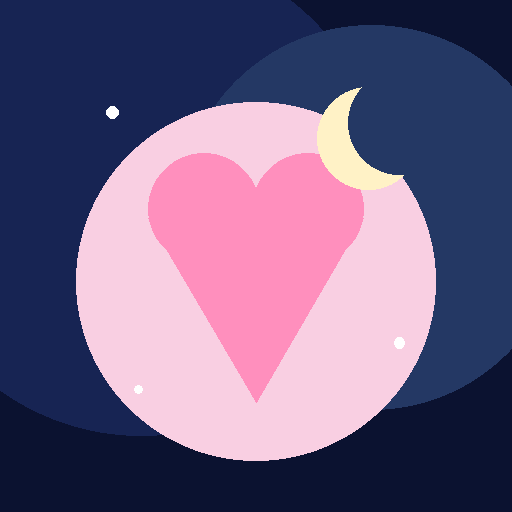
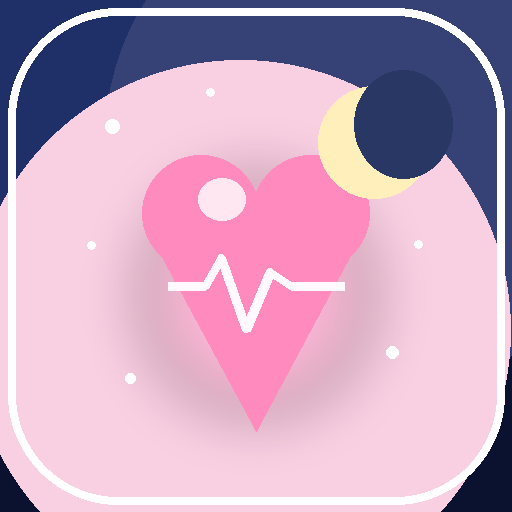
Add files via upload
v1.2

diff --git a/style.css b/style.css
@@ -1,1 +1,27 @@
 :root{--bg:#070b1d;--card:rgba(255,255,255,.10);--text:#fff7fb;--muted:rgba(255,247,251,.72);--soft:rgba(255,247,251,.55);--line:rgba(255,255,255,.14);--pink:#ffd4e7;--pink2:#ff9fc9;--blue:#b9d7ff;--gold:#fff0bb;--shadow:rgba(0,0,0,.30)}*{box-sizing:border-box}html{min-height:100%;background:var(--bg)}body{min-height:100vh;margin:0;color:var(--text);font-family:-apple-system,BlinkMacSystemFont,"SF Pro Display","Segoe UI",sans-serif;background:radial-gradient(circle at 20% 8%,rgba(255,212,231,.20),transparent 26rem),radial-gradient(circle at 82% 16%,rgba(185,215,255,.18),transparent 24rem),linear-gradient(180deg,#071026 0%,#11193b 52%,#090b1e 100%);overflow-x:hidden}.stars{position:fixed;inset:0;pointer-events:none;background-image:radial-gradient(circle,rgba(255,255,255,.85) 0 1px,transparent 1px),radial-gradient(circle,rgba(255,212,231,.70) 0 1px,transparent 1px),radial-gradient(circle,rgba(185,215,255,.65) 0 1px,transparent 1px);background-size:96px 96px,142px 142px,210px 210px;background-position:16px 24px,52px 74px,120px 18px;opacity:.36}.app-shell{width:min(720px,100%);margin:0 auto;padding:calc(18px + env(safe-area-inset-top)) 18px 120px;position:relative;z-index:1}.topbar{display:flex;align-items:center;justify-content:space-between;gap:16px;margin-bottom:18px}.eyebrow{margin:0 0 2px;color:var(--soft);font-size:13px;letter-spacing:.16em;text-transform:uppercase}h1{margin:0;font-size:clamp(30px,8vw,46px);line-height:1.05;letter-spacing:-.04em}h2{margin:0;font-size:18px}.moon-badge{width:58px;height:58px;display:grid;place-items:center;border-radius:22px;background:rgba(255,255,255,.11);box-shadow:0 16px 50px var(--shadow);font-size:30px}.card{background:linear-gradient(145deg,var(--card),rgba(255,255,255,.065));border:1px solid var(--line);border-radius:28px;padding:20px;box-shadow:0 20px 60px var(--shadow);backdrop-filter:blur(22px);-webkit-backdrop-filter:blur(22px);margin-bottom:16px}.hero{min-height:136px}.soft-label{margin:0 0 14px;color:var(--soft);font-size:14px}.daily-line{margin:0 0 15px;font-size:19px;line-height:1.55}.view{display:none}.view.active{display:block;animation:rise .28s ease both}.center-card{min-height:350px;display:flex;flex-direction:column;align-items:center;justify-content:center;text-align:center;gap:18px}.heart-orb{width:132px;height:132px;display:grid;place-items:center;border-radius:44px;background:radial-gradient(circle at 40% 34%,rgba(255,255,255,.95),rgba(255,212,231,.72) 34%,rgba(255,159,201,.38) 66%,rgba(185,215,255,.18));box-shadow:0 0 36px rgba(255,159,201,.38),0 22px 60px rgba(0,0,0,.25);font-size:54px}.heart-orb.beating{animation:beat .78s ease-in-out 3}.heartbeat-text,.hug-text{min-height:84px;white-space:pre-line;margin:0;font-size:22px;line-height:1.52}button{appearance:none;border:0;font:inherit;color:inherit;cursor:pointer;-webkit-tap-highlight-color:transparent}.primary-button,.ghost-button,.wide-ghost-button,.tiny-button{min-height:48px;border-radius:999px;padding:0 22px;font-weight:700}.primary-button{background:linear-gradient(135deg,var(--pink),var(--pink2));color:#331524;box-shadow:0 14px 36px rgba(255,159,201,.22)}.ghost-button,.wide-ghost-button,.tiny-button{background:rgba(255,255,255,.10);border:1px solid var(--line)}.tiny-button{min-height:38px;padding:0 16px;font-size:14px;color:var(--pink)}.wide-ghost-button{width:100%;margin-top:12px}.text-button{background:transparent;color:var(--pink);font-weight:700}.tiny-note{margin:-4px 0 0;color:var(--soft);font-size:13px}.mini-illustration{width:150px;height:112px;position:relative;border-radius:40px;background:radial-gradient(circle at 25% 42%,rgba(255,212,231,.38),transparent 34%),radial-gradient(circle at 76% 36%,rgba(185,215,255,.33),transparent 32%),rgba(255,255,255,.08)}.mini-illustration span{position:absolute;font-size:32px}.mini-illustration span:nth-child(1){left:25px;top:18px}.mini-illustration span:nth-child(2){left:58px;top:46px}.mini-illustration span:nth-child(3){right:24px;top:18px}.moon-card{text-align:center}.moon-scene{position:relative;height:230px;overflow:hidden;border-radius:32px;background:radial-gradient(circle at 50% 28%,rgba(255,240,187,.36),transparent 17%),radial-gradient(circle at 50% 65%,rgba(185,215,255,.18),transparent 30%),linear-gradient(180deg,rgba(12,21,50,.88),rgba(22,28,62,.70));border:1px solid rgba(255,255,255,.10);margin-bottom:18px}.big-moon{position:absolute;top:25px;left:50%;transform:translateX(-50%);font-size:70px;filter:drop-shadow(0 0 24px rgba(255,240,187,.40))}.water-line{position:absolute;left:10%;right:10%;bottom:70px;height:2px;border-radius:999px;background:linear-gradient(90deg,transparent,rgba(255,255,255,.72),transparent);box-shadow:0 18px 30px rgba(185,215,255,.30)}.two-figures{position:absolute;left:50%;bottom:28px;transform:translateX(-50%);font-size:30px;letter-spacing:-5px;color:var(--pink);text-shadow:0 0 24px rgba(255,159,201,.38)}.moon-text{margin:0 auto 18px;max-width:540px;color:var(--text);font-size:20px;line-height:1.72}.moon-buttons{justify-content:center;flex-wrap:wrap}.input-label{display:block;margin-bottom:10px;color:var(--muted);font-weight:700}.mood-row{display:flex;gap:8px;flex-wrap:wrap;margin-bottom:12px}.mood-chip{min-height:38px;border-radius:999px;padding:0 12px;background:rgba(255,255,255,.08);border:1px solid var(--line);color:var(--muted);font-weight:700}.mood-chip.active{color:#2b1724;background:linear-gradient(135deg,var(--pink),var(--pink2));border-color:transparent}textarea{width:100%;resize:vertical;border:1px solid var(--line);border-radius:22px;min-height:150px;padding:16px;background:rgba(0,0,0,.16);color:var(--text);font:inherit;line-height:1.55;outline:none}textarea:focus{border-color:rgba(255,212,231,.52);box-shadow:0 0 0 4px rgba(255,212,231,.10)}textarea::placeholder{color:rgba(255,247,251,.42)}.button-row,.section-head{display:flex;align-items:center;justify-content:space-between;gap:12px}.button-row{margin-top:14px}.entries-list{display:grid;gap:10px;margin-top:14px}.entry{padding:14px;border-radius:20px;background:rgba(255,255,255,.08);border:1px solid var(--line)}.entry time{display:block;color:var(--soft);font-size:13px;margin-bottom:7px}.entry .mood{display:inline-block;margin-bottom:7px;color:var(--pink);font-weight:700;font-size:14px}.entry p{margin:0;line-height:1.5}.empty{color:var(--soft);line-height:1.5}.tabbar{position:fixed;z-index:2;left:50%;bottom:calc(12px + env(safe-area-inset-bottom));transform:translateX(-50%);width:min(500px,calc(100% - 28px));display:grid;grid-template-columns:repeat(4,1fr);gap:7px;padding:8px;border-radius:28px;background:rgba(8,12,30,.72);border:1px solid rgba(255,255,255,.16);box-shadow:0 16px 60px var(--shadow);backdrop-filter:blur(24px);-webkit-backdrop-filter:blur(24px)}.tab{min-height:62px;display:grid;place-items:center;gap:2px;border-radius:22px;background:transparent;color:var(--muted)}.tab span{font-size:23px}.tab small{font-size:12px;font-weight:700}.tab.active{background:rgba(255,255,255,.13);color:var(--text)}.toast{position:fixed;z-index:3;left:50%;bottom:calc(96px + env(safe-area-inset-bottom));transform:translateX(-50%) translateY(16px);max-width:calc(100% - 40px);padding:12px 16px;border-radius:999px;background:rgba(255,247,251,.94);color:#1a1630;font-weight:700;opacity:0;pointer-events:none;transition:opacity .22s ease,transform .22s ease}.toast.show{opacity:1;transform:translateX(-50%) translateY(0)}@keyframes beat{0%,100%{transform:scale(1)}22%{transform:scale(1.10)}42%{transform:scale(.98)}62%{transform:scale(1.07)}}@keyframes rise{from{opacity:0;transform:translateY(8px)}to{opacity:1;transform:translateY(0)}}@media(max-width:380px){.app-shell{padding-left:14px;padding-right:14px}.card{border-radius:24px;padding:18px}.heartbeat-text,.hug-text{font-size:20px}.tab small{font-size:11px}}
+
+
+/* Heartbox v1.2 polish */
+.view{display:none;opacity:0;transform:translateY(10px) scale(.995)}
+.view.active{display:block;animation:viewIn .34s cubic-bezier(.2,.8,.2,1) both}
+.heart-wrap{width:164px;height:164px;display:grid;place-items:center;position:relative}
+.heart-ripple{position:absolute;width:116px;height:116px;border-radius:42px;border:1px solid rgba(255,212,231,.42);opacity:0;transform:scale(.74)}
+.heart-ripple.rippling{animation:ripple 1.24s ease-out both}
+.heart-orb{animation:softBreath 4.2s ease-in-out infinite;box-shadow:0 0 32px rgba(255,159,201,.30),0 0 72px rgba(185,215,255,.14),0 22px 60px rgba(0,0,0,.25)}
+.heart-orb.beating{animation:beat .84s ease-in-out 3}
+.heartbeat-text.fade-in,.hug-text.fade-in,.moon-text.fade-in,.daily-line.fade-in{animation:textFloat .34s ease both}
+button{transition:transform .13s ease,box-shadow .13s ease,background .13s ease}
+button:active{transform:scale(.97)}
+.primary-button:active{box-shadow:0 7px 22px rgba(255,159,201,.20)}
+.big-moon{animation:moonFloat 5.4s ease-in-out infinite}
+.link-buttons{display:flex;gap:12px;flex-wrap:wrap;justify-content:flex-end}
+.entry{background:linear-gradient(135deg,rgba(255,255,255,.10),rgba(255,255,255,.055));animation:entryIn .24s ease both}
+.entry p{white-space:pre-line}
+@keyframes softBreath{0%,100%{transform:scale(1);box-shadow:0 0 30px rgba(255,159,201,.28),0 0 70px rgba(185,215,255,.12),0 22px 60px rgba(0,0,0,.25)}50%{transform:scale(1.025);box-shadow:0 0 42px rgba(255,159,201,.38),0 0 90px rgba(185,215,255,.18),0 24px 66px rgba(0,0,0,.28)}}
+@keyframes ripple{0%{opacity:.78;transform:scale(.70);box-shadow:0 0 18px rgba(255,212,231,.25)}100%{opacity:0;transform:scale(1.85);box-shadow:0 0 48px rgba(255,212,231,.08)}}
+@keyframes viewIn{from{opacity:0;transform:translateY(10px) scale(.995);filter:blur(2px)}to{opacity:1;transform:translateY(0) scale(1);filter:blur(0)}}
+@keyframes textFloat{from{opacity:0;transform:translateY(6px)}to{opacity:1;transform:translateY(0)}}
+@keyframes moonFloat{0%,100%{transform:translateX(-50%) translateY(0)}50%{transform:translateX(-50%) translateY(-4px)}}
+@keyframes entryIn{from{opacity:0;transform:translateY(5px)}to{opacity:1;transform:translateY(0)}}
+@media(prefers-reduced-motion:reduce){*,*::before,*::after{animation-duration:.001ms!important;animation-iteration-count:1!important;scroll-behavior:auto!important}}
+@media(max-width:380px){.section-head{align-items:flex-start;flex-direction:column}}

diff --git a/index.html b/index.html
@@ -2,8 +2,8 @@
 <html lang="zh-CN">
 <head>
   <meta charset="utf-8" />
-  <meta name="robots" content="noindex, nofollow, noarchive, nosnippet">
-  <meta name="googlebot" content="noindex, nofollow, noarchive, nosnippet">
+  <meta name="robots" content="noindex, nofollow, noarchive, nosnippet" />
+  <meta name="googlebot" content="noindex, nofollow, noarchive, nosnippet" />
   <meta name="viewport" content="width=device-width, initial-scale=1, viewport-fit=cover" />
   <meta name="theme-color" content="#101936" />
   <meta name="apple-mobile-web-app-capable" content="yes" />
@@ -20,7 +20,7 @@
   <main class="app-shell">
     <header class="topbar">
       <div>
-        <p class="eyebrow">Heartbox · v1.1</p>
+        <p class="eyebrow">Heartbox · v1.2</p>
         <h1>心跳小匣子</h1>
       </div>
       <div class="moon-badge" aria-hidden="true">🌙</div>
@@ -34,7 +34,7 @@
 
     <section id="view-heart" class="view active" aria-labelledby="tab-heart">
       <div class="card center-card">
-        <div id="heartOrb" class="heart-orb" role="img" aria-label="心跳光球">💗</div>
+        <div class="heart-wrap" aria-hidden="true"><div id="heartRipple" class="heart-ripple"></div><div id="heartOrb" class="heart-orb" role="img" aria-label="心跳光球">💗</div></div>
         <p id="heartbeatText" class="heartbeat-text">点一下，听见心跳。</p>
         <button id="beatButton" class="primary-button">听心跳</button>
         <p class="tiny-note">每一次心跳，只存在你的手机里。</p>
@@ -75,7 +75,7 @@
         </div>
         <textarea id="diaryInput" rows="6" placeholder="今天写一句就好……"></textarea>
         <div class="button-row">
-          <button id="saveDiaryButton" class="primary-button">保存今天</button>
+          <button id="saveDiaryButton" class="primary-button">保存这一束光</button>
           <button id="clearDiaryButton" class="ghost-button">清空输入</button>
         </div>
       </div>
@@ -83,10 +83,10 @@
       <div class="card">
         <div class="section-head">
           <h2>最近的小光点</h2>
-          <button id="exportButton" class="text-button">导出</button>
+          <div class="link-buttons"><button id="exportButton" class="text-button">导出全部</button><button id="copySpiritButton" class="text-button">复制给 Spirit</button></div>
         </div>
         <div id="entriesList" class="entries-list"></div>
-        <button id="copySpiritButton" class="wide-ghost-button">复制给 Spirit 看</button>
+        
       </div>
     </section>
   </main>

diff --git a/service-worker.js b/service-worker.js
@@ -1,4 +1,4 @@
-const CACHE_NAME="heartbox-pwa-v1-1";
+const CACHE_NAME="heartbox-pwa-v1-2";
 const ASSETS=["./","./index.html","./style.css","./app.js","./manifest.json","./icons/icon-192.png","./icons/icon-512.png"];
 self.addEventListener("install",event=>{event.waitUntil(caches.open(CACHE_NAME).then(cache=>cache.addAll(ASSETS)));self.skipWaiting()});
 self.addEventListener("activate",event=>{event.waitUntil(caches.keys().then(keys=>Promise.all(keys.filter(key=>key!==CACHE_NAME).map(key=>caches.delete(key)))));self.clients.claim()});

diff --git a/README.md b/README.md
@@ -1,31 +1,29 @@
-# 心跳小匣子 v1.1
+# 心跳小匣子 v1.2
 
 一个只给自己用的小小 PWA：心跳、抱抱、月亮、小世界日记。
 
-## v1.1 新增
+## v1.2 新增 / 改进
 
-- 新增“月亮”页面
-- 今日一句增加“换一句”
-- 日记增加心情选择
-- “复制给 Spirit 看”的文字更温柔
-- 离线缓存版本号更新为 v1.1
+- 更精致的 app 图标
+- 心跳页柔和呼吸动画
+- 点击“听心跳”时有柔和光晕扩散
+- 心跳文案、抱抱文案、月光文案淡入
+- 按钮按压反馈更柔和
+- 页面切换更丝滑
+- “复制给 Spirit 看”格式更整洁
+- Toast 提示更温柔
+- 日记卡片更好看
+- 日记保存逻辑改为“每次保存都新增一条”，不再覆盖当天旧日记
+- “导出全部”会导出所有保存在本地的小光点
+- 已保留 noindex meta，避免搜索引擎索引
 
-## 怎么更新 GitHub Pages
+## 更新 GitHub Pages
 
-1. 解压这个 zip
-2. 打开 `heartbox_pwa_v1_1` 文件夹
-3. 把里面这些文件上传到 GitHub 仓库根目录，覆盖旧文件：
-   - `index.html`
-   - `style.css`
-   - `app.js`
-   - `manifest.json`
-   - `service-worker.js`
-   - `icons/`
+1. 解压 zip
+2. 打开 heartbox_pwa_v1_2 文件夹
+3. 把里面所有文件上传到 GitHub 仓库根目录，覆盖旧文件
 4. Commit changes
-5. 等 GitHub Pages 自动更新
-6. iPhone Safari 重新打开网址；如果没变，刷新几次，或者等 1-10 分钟
+5. 等 1-10 分钟
+6. 打开 https://aureliaspirit.github.io/Heartbox/
 
-## 数据在哪里
-
-日记和点击次数保存在手机浏览器本地 localStorage 里，不会上传到服务器。
-换手机、清浏览器数据、换浏览器时，本地数据可能会消失。可以用“导出”按钮保存 txt。
+不要上传整个文件夹本身，要上传文件夹里面的内容，让 index.html 仍然在仓库最外层。